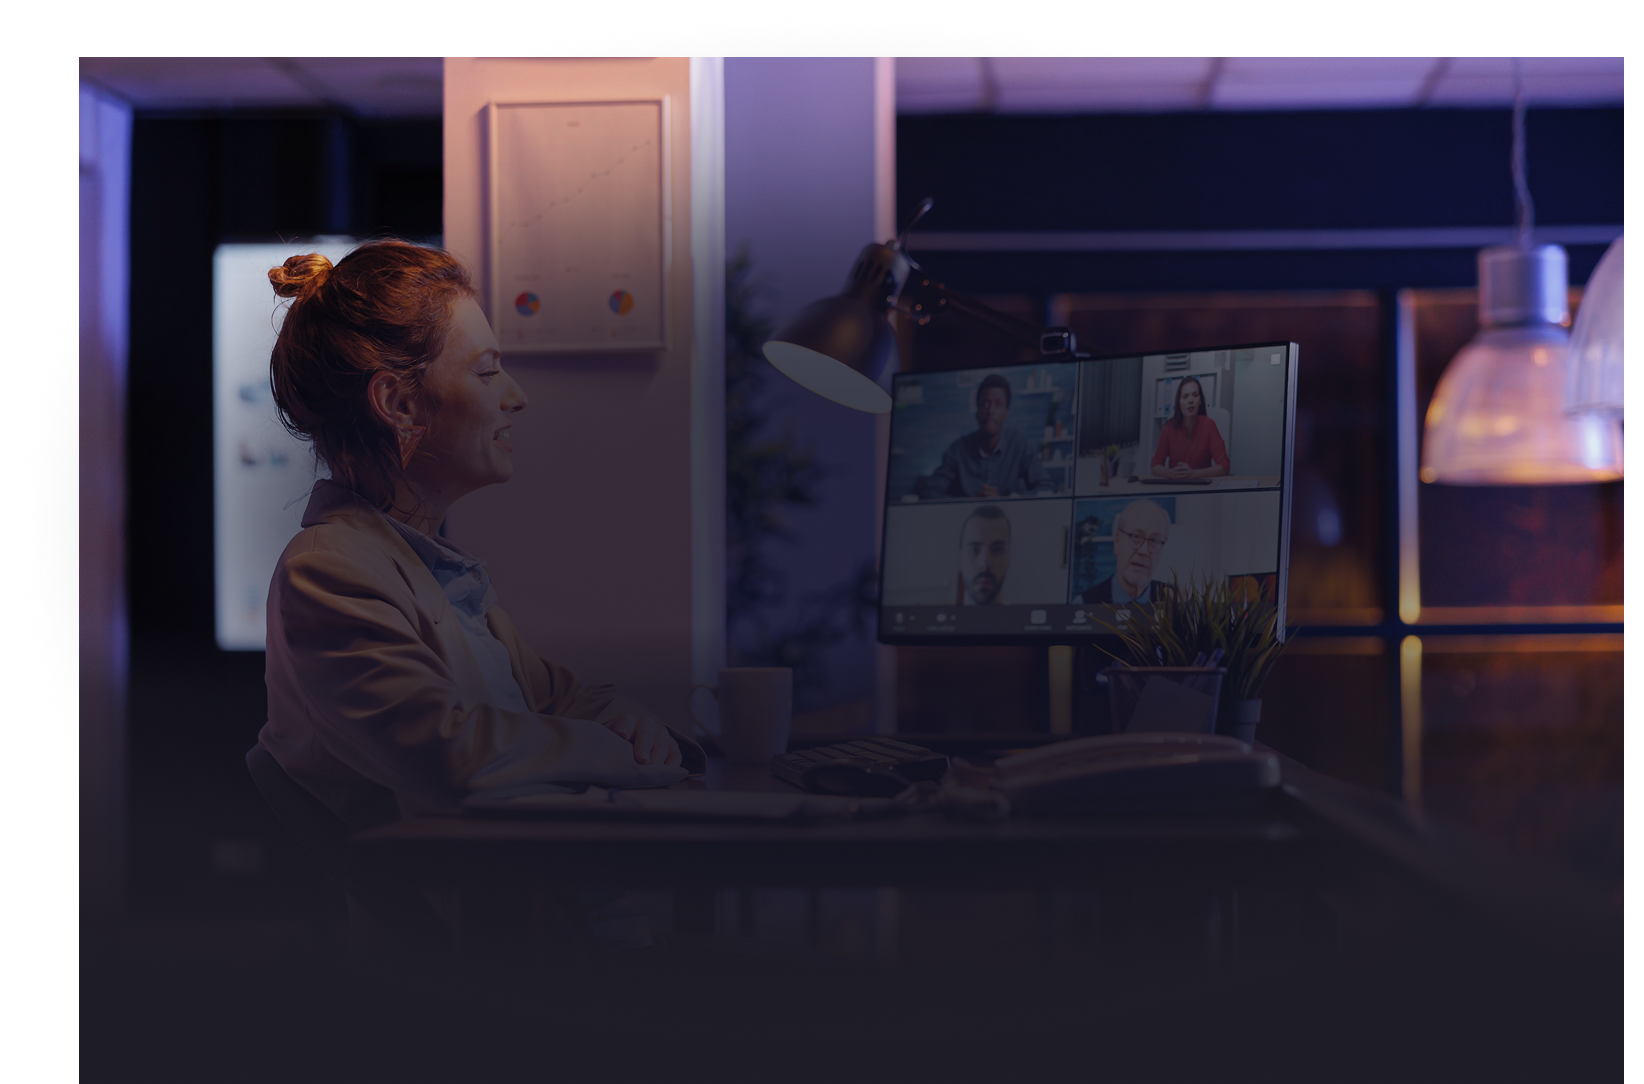
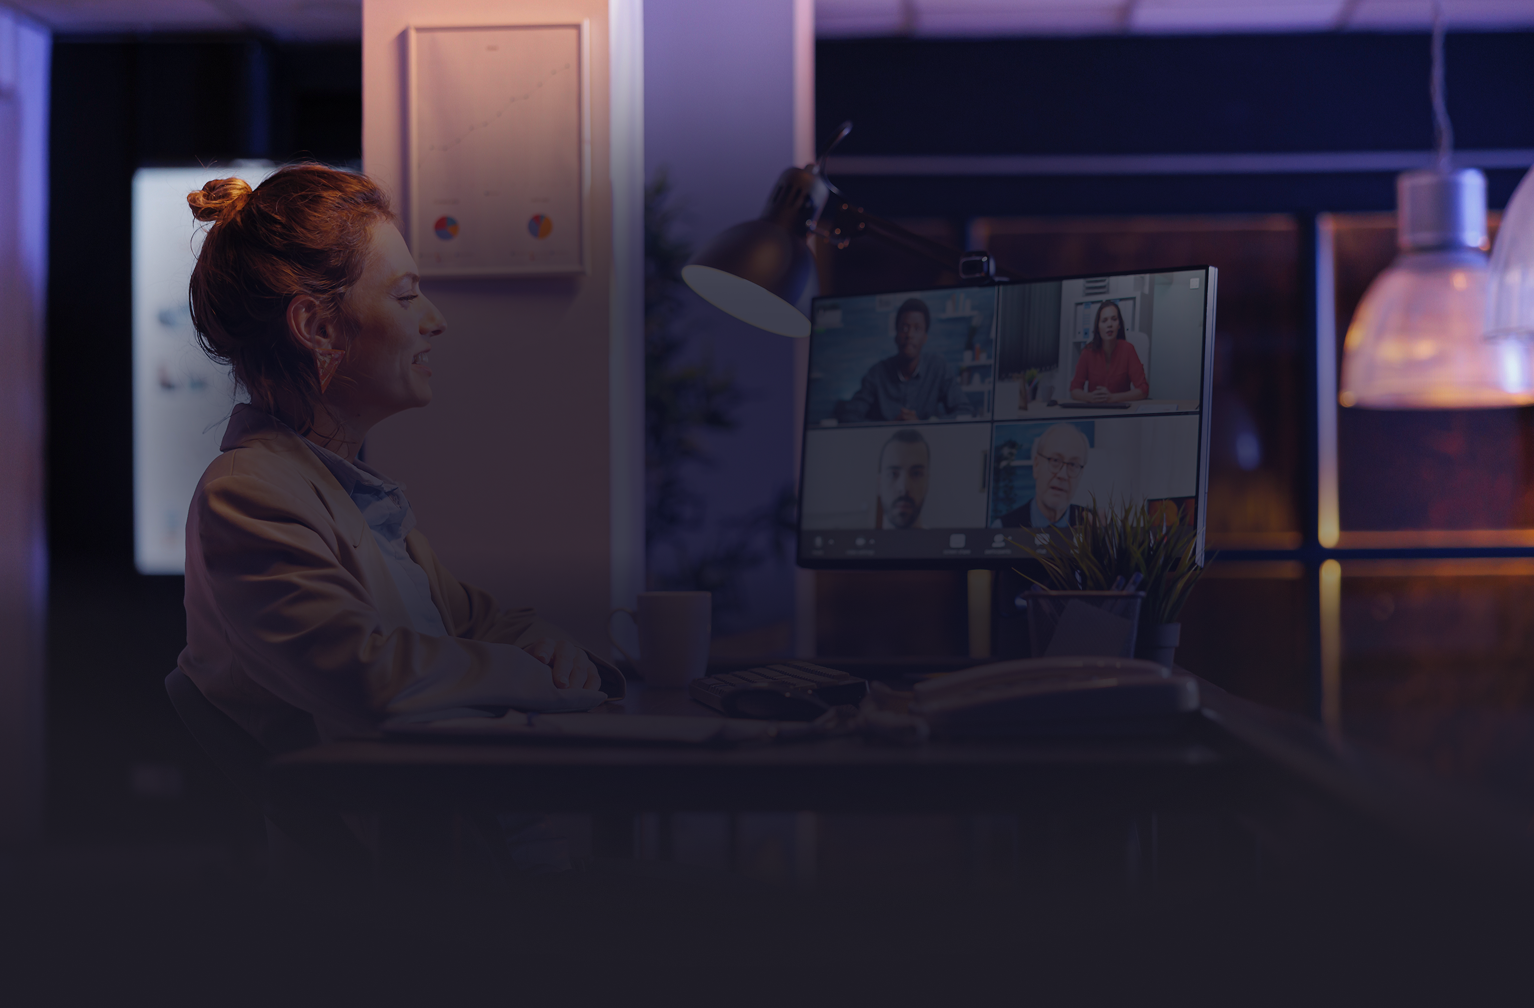
fix home

diff --git a/src/pages/Home/Home.tsx b/src/pages/Home/Home.tsx
@@ -21,16 +21,16 @@ export const Home = () => {
             <section className="section-spacing">
                 <Hero />
             </section>
-            <section className="section-spacing">
+            <section className="section-spacing relative z-10 bg-bg-main">
                 <Features />
             </section>
-            <section className="section-spacing">
+            <section className="section-spacing relative z-10 bg-bg-main">
                 <PopularSubjects />
             </section>
-            <section className="section-spacing">
+            <section className="section-spacing relative z-10 bg-bg-main">
                 <OurClients />
             </section>
-            <section className="section-spacing">
+            <section className="section-spacing relative z-10 bg-bg-main">
                 <Reviews/>
             </section>
         </div>

diff --git a/src/App.tsx b/src/App.tsx
@@ -1,18 +1,18 @@
 import './App.css'
 import {Home} from "./pages/Home/Home.tsx";
 import {Header} from "./components/header/Header.tsx";
-import Footer from "../src/components/footer/Footer.tsx";
+import Footer from "./components/footer/Footer.tsx";
 // import {SignUpPage} from "./pages/signUpPage/SignUpPage.tsx";
 
 function App() {
     return (
         <>
-            <Home/>
             <Header/>
-            <Footer/>
+            <Home/>
             {/*<main className="pt-[var(--header-height)]">*/}
             {/*    <SignUpPage/>*/}
             {/*</main>*/}
+            <Footer/>
         </>
     )
 }

diff --git a/src/components/home-sections/Hero/Hero.tsx b/src/components/home-sections/Hero/Hero.tsx
@@ -14,12 +14,12 @@ const subjects = [
 
 export const Hero = () => {
   return (
-    <section className="relative min-h-screen flex items-center justify-center overflow-hidden">
-      <div className="absolute inset-0 z-0">
+    <section className="relative min-h-screen flex items-center justify-center overflow-hidden pt-22.5">
+      <div className="fixed inset-0 z-0">
         <img 
           src={heroImage} 
           alt="learn" 
-          className="w-full h-full object-cover scale-110"
+          className="w-full h-full object-cover object-top scale-110"
         />
       </div>
 

diff --git a/src/components/footer/Footer.tsx b/src/components/footer/Footer.tsx
@@ -1,6 +1,6 @@
 export default function Footer({ className }: { className?: string }) {
   return (
-    <footer className={className || "bg-[#15141D40] backdrop-blur-md w-full py-8 pl-6"}>
+    <footer className={className || "bg-[#1a161f] backdrop-blur-md w-full py-8 pl-6"}>
       <div className="max-w-7xl mx-auto px-4 flex flex-col lg:flex-row justify-between items-start lg:items-center text-white gap-8 lg:gap-0">
         <div className="max-w-sm w-full lg:w-auto">
           <h3 className="font-bold text-2xl mb-4">StudyBridge</h3>
